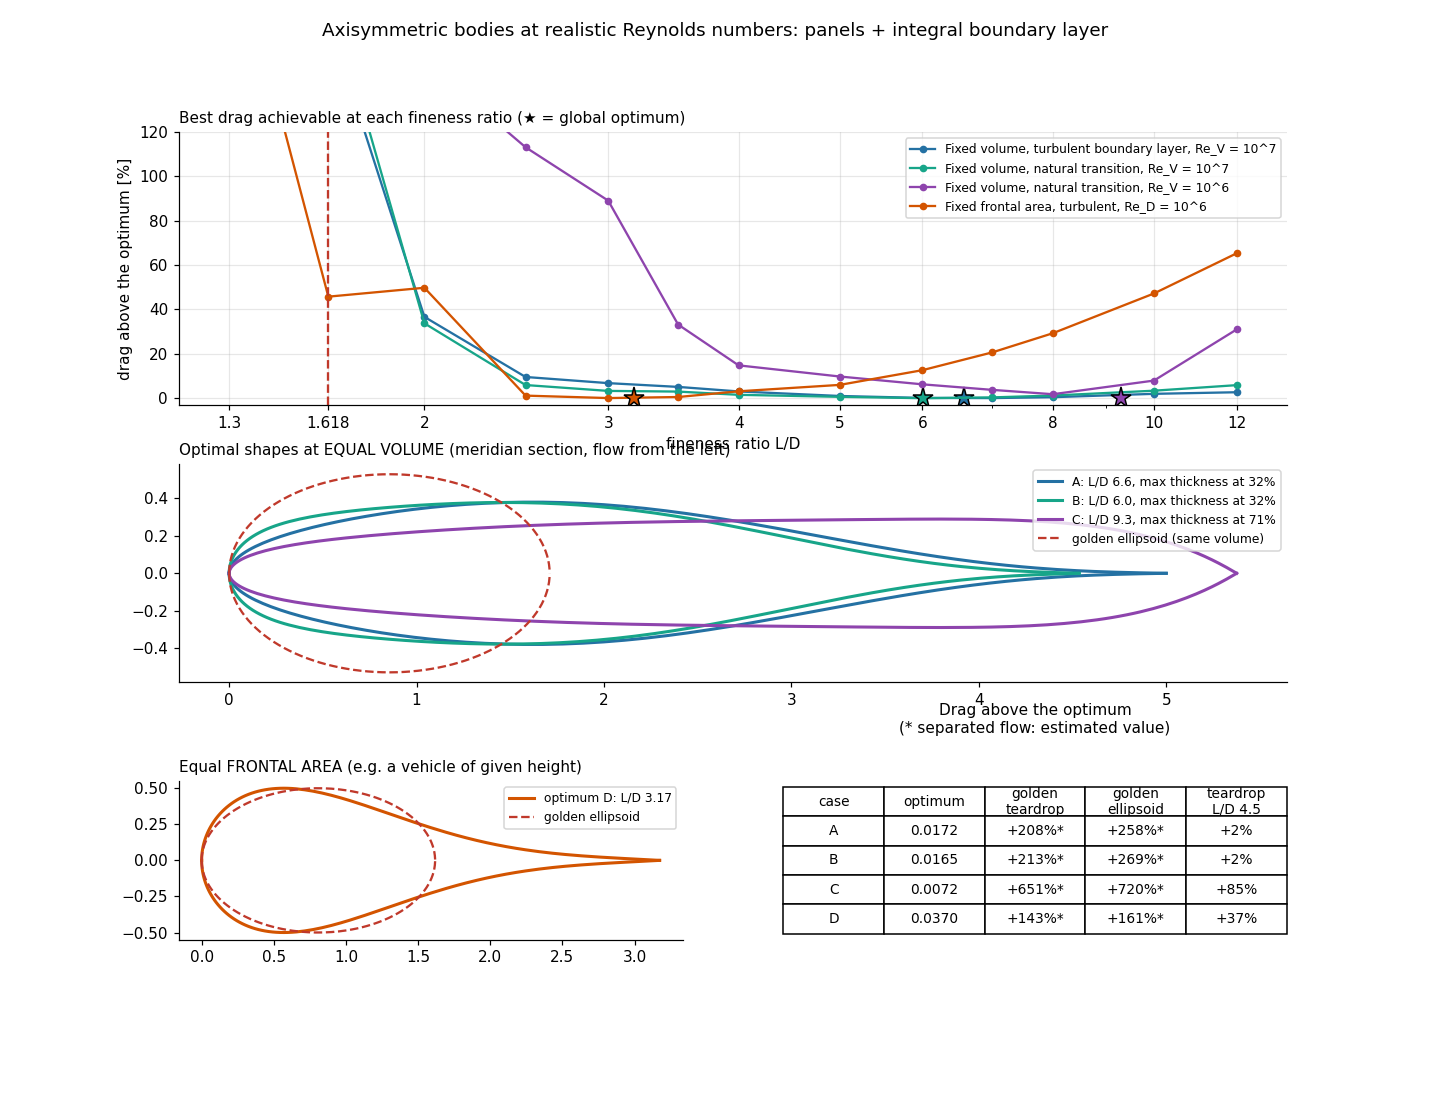
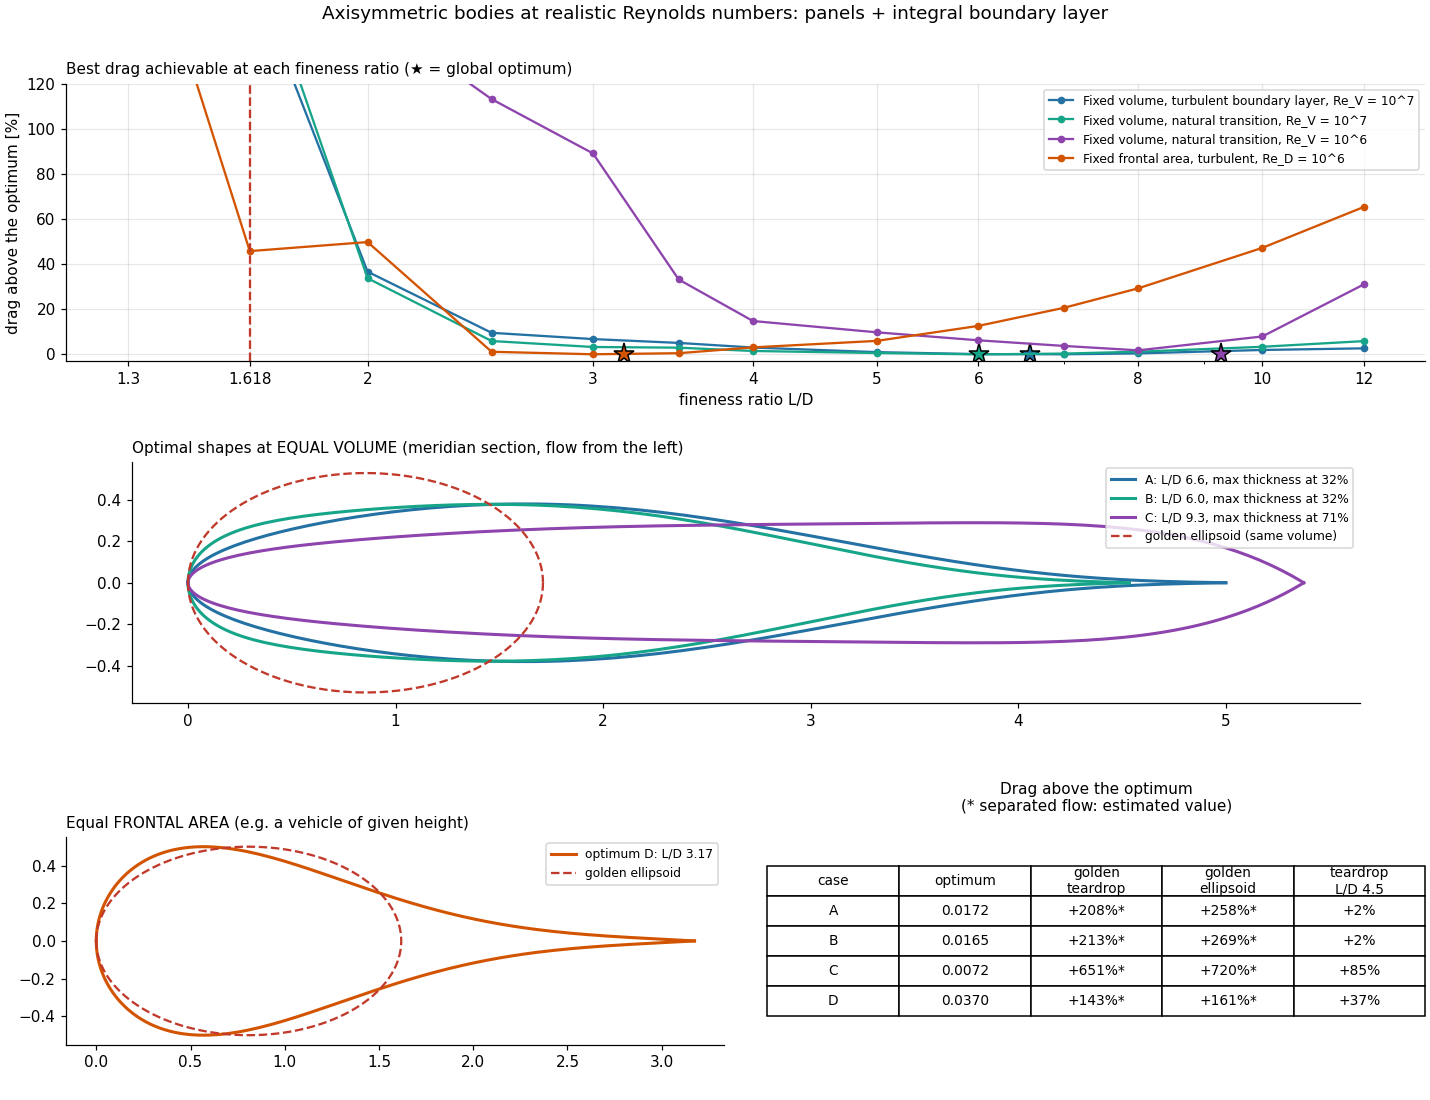
Axisymmetric-bodies figure: constrained layout, no overlapping labels

diff --git a/plot_axi.py b/plot_axi.py
@@ -10,7 +10,7 @@ PHI = (1 + 5 ** 0.5) / 2
 R = json.load(open("out/axi_risultati.json"))
 COL = {"A": "#2471a3", "B": "#17a589", "C": "#8e44ad", "D": "#d35400"}
 
-fig = plt.figure(figsize=(13, 10))
+fig = plt.figure(figsize=(13, 10), layout="constrained")
 gs = fig.add_gridspec(3, 2, height_ratios=[1.15, 1, 1])
 
 # 1) curve: migliore resistenza ottenibile vs L/D, normalizzata all'ottimo
@@ -71,6 +71,6 @@ t.auto_set_font_size(False); t.set_fontsize(9); t.scale(1, 1.6)
 ax.set_title("Resistenza in più rispetto all'ottimo\n(* flusso staccato: valore stimato)", fontsize=10)
 
 fig.suptitle("Corpi di rivoluzione 3D a Reynolds reali — pannelli + strato limite integrale", fontsize=12)
-plt.tight_layout()
+# layout="constrained" above: no overlap between the axis label and the next panel title
 plt.savefig("out/ottimo_3D.png", dpi=110)
 print("ok")
